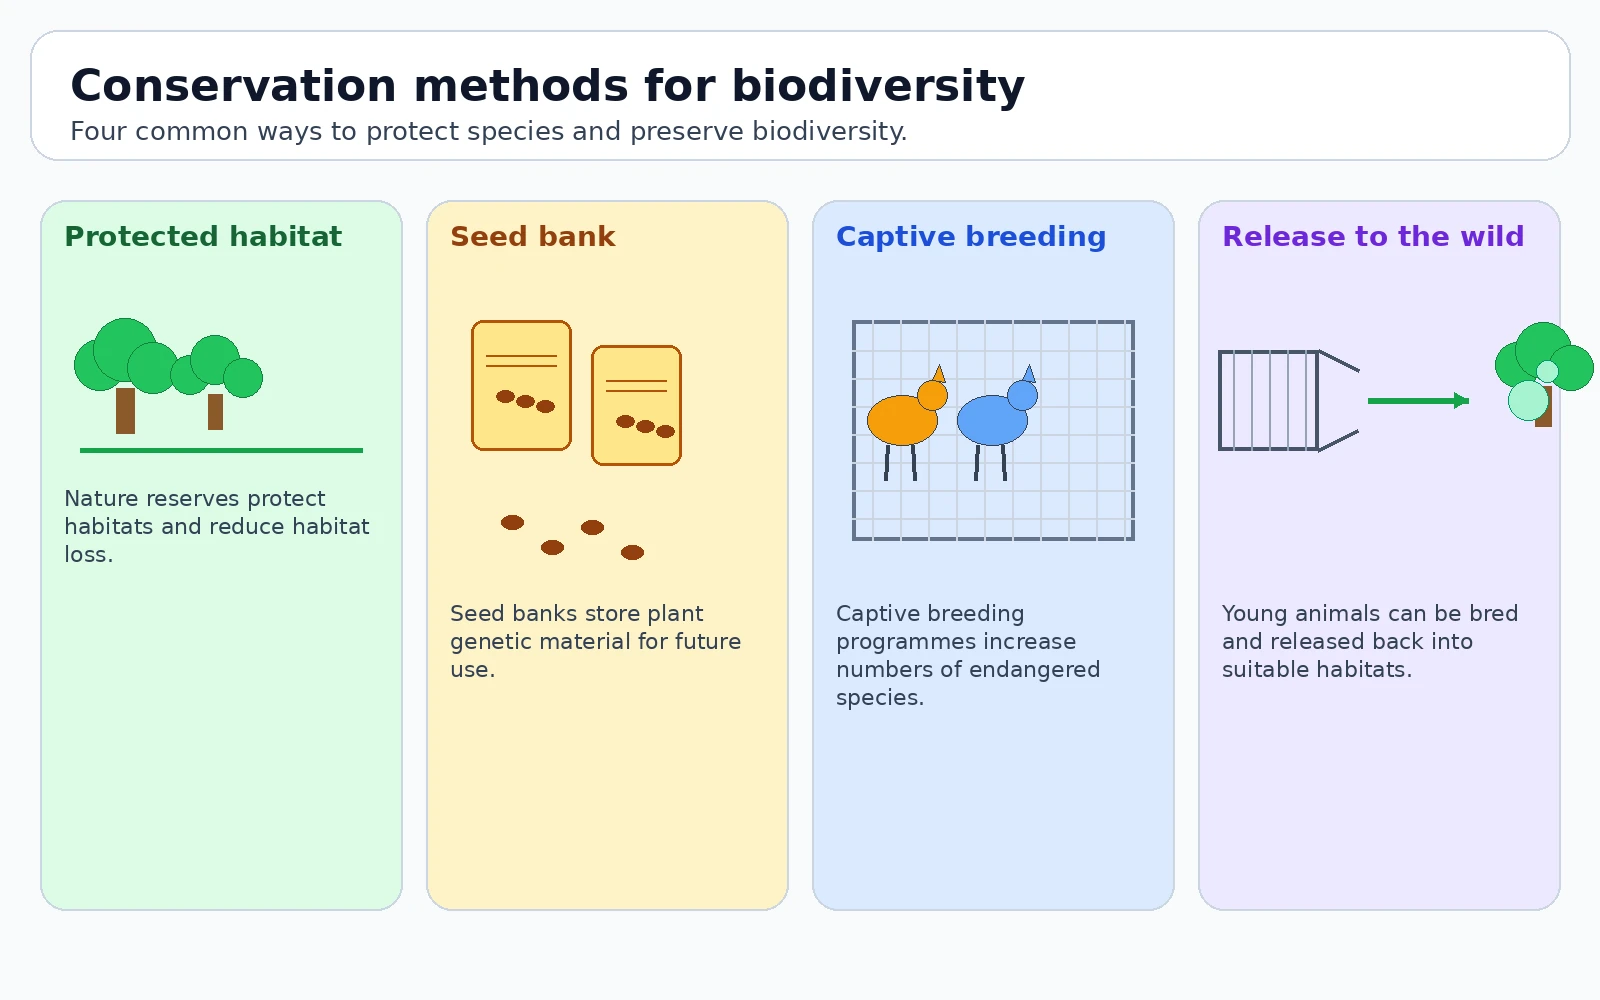
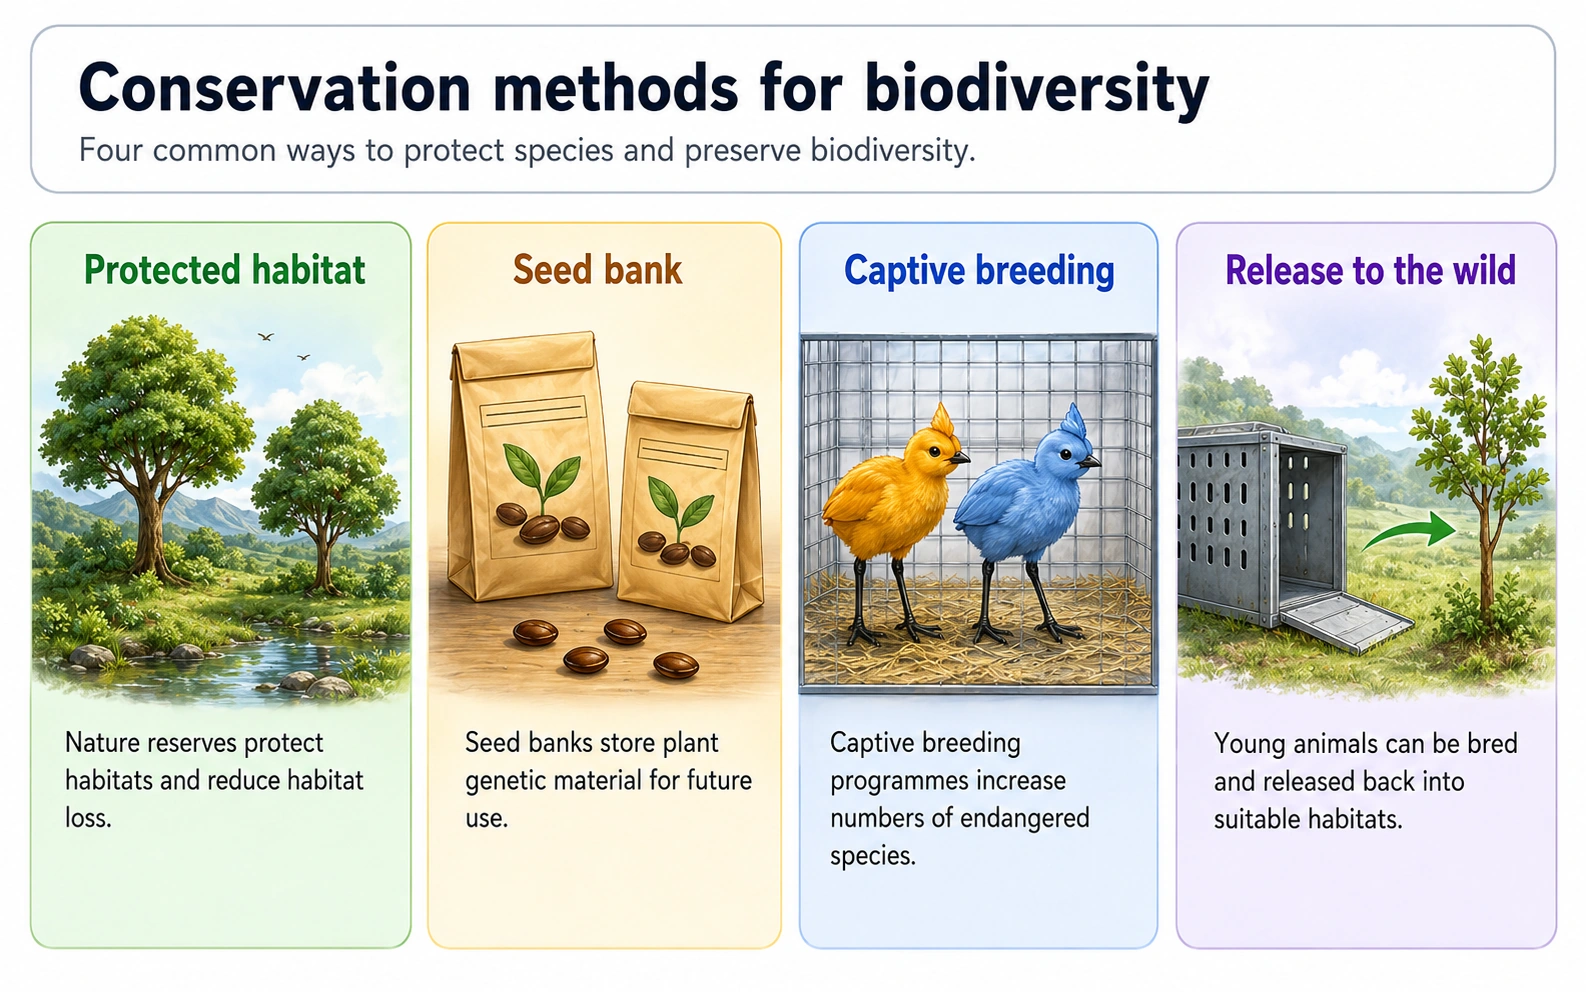
exam

diff --git a/docs/OVERVIEW_IMAGE_REFRESH_v1_72_3.md b/docs/OVERVIEW_IMAGE_REFRESH_v1_72_3.md
@@ -1,0 +1,29 @@
+# Overview image refresh v1.72.3
+
+## Updated assets
+
+These five overview explainer images were refreshed from the user-provided `reaction image coverage.zip` image set and converted to `webp` format in `assets/webp/`.
+
+| Asset | Purpose | Size (bytes) |
+|---|---|---:|
+| `assets/webp/9A-conservation-methods-overview.webp` | Conservation methods overview | 365890 |
+| `assets/webp/9E-peer-review-overview.webp` | Peer review process overview | 177572 |
+| `assets/webp/9F-extraction-decision-overview.webp` | Reactivity / extraction decision overview | 228028 |
+| `assets/webp/9F-metal-reaction-products-overview.webp` | Common products of metal reactions overview | 236972 |
+| `assets/webp/9J-wire-resistance-overview.webp` | Resistance investigation overview | 159080 |
+
+## Integration notes
+
+- The original asset paths were preserved, so all existing `data/year9-notes.js` references remain valid.
+- No JavaScript or note content changes were required for this refresh.
+- These images are intended for the full-width overview expansion panels.
+
+## Source mapping
+
+| Source image | Integrated asset |
+|---|---|
+| `ChatGPT Image May 14, 2026, 02_27_43 PM (1).png` | `9A-conservation-methods-overview.webp` |
+| `ChatGPT Image May 14, 2026, 02_27_44 PM (2).png` | `9E-peer-review-overview.webp` |
+| `ChatGPT Image May 14, 2026, 02_27_44 PM (3).png` | `9F-extraction-decision-overview.webp` |
+| `ChatGPT Image May 14, 2026, 02_27_45 PM (4).png` | `9F-metal-reaction-products-overview.webp` |
+| `ChatGPT Image May 14, 2026, 02_27_46 PM (5).png` | `9J-wire-resistance-overview.webp` |

diff --git a/docs/CHANGELOG.md b/docs/CHANGELOG.md
@@ -1,3 +1,14 @@
+## v1.72.3 — Refreshed five overview explainer images
+
+- Replaced the five overview explainer images below with updated source images from `reaction image coverage.zip` and converted them to `webp` in `assets/webp/`:
+  - `9A-conservation-methods-overview.webp`
+  - `9E-peer-review-overview.webp`
+  - `9F-extraction-decision-overview.webp`
+  - `9F-metal-reaction-products-overview.webp`
+  - `9J-wire-resistance-overview.webp`
+- Kept the same filenames and asset paths so no content or note references needed to change.
+- Preserved text-forward layout and readable type for overview expansion panels.
+
 ## v1.72.2 — Year-end essentials promoted to class notes
 
 - Added full class notes for repeated source-exam essentials: cells/microscopy, digestion/enzymes/food tests, acids/alkalis, states/particles/density, waves/light/sound, energy resources, and working scientifically.
